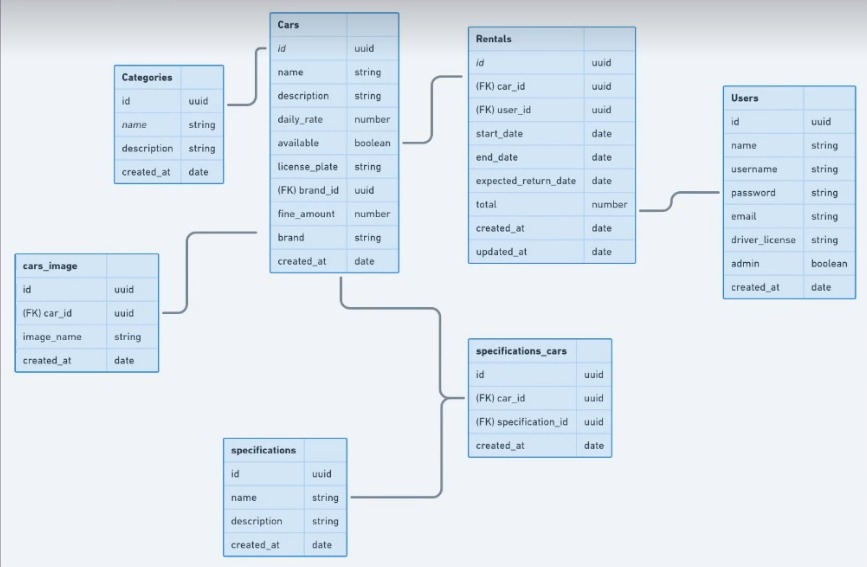
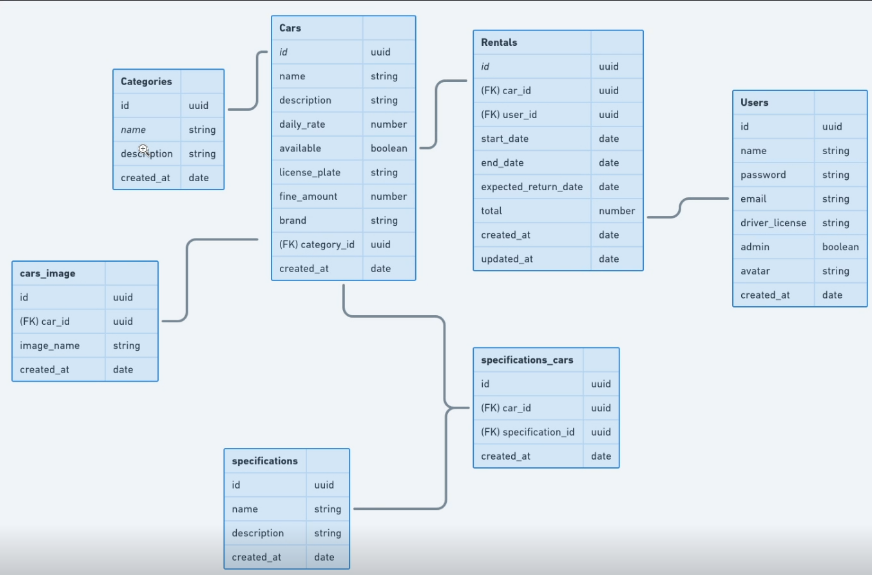
praticando TDD e criando nova migration

diff --git a/src/shared/infra/typeorm/migrations/1638900333623-CreateCars.ts b/src/shared/infra/typeorm/migrations/1638900333623-CreateCars.ts
@@ -1,0 +1,68 @@
+import { MigrationInterface, QueryRunner, Table } from "typeorm";
+
+export class CreateCars1638900333623 implements MigrationInterface {
+  public async up(queryRunner: QueryRunner): Promise<void> {
+    await queryRunner.createTable(
+      new Table({
+        name: "cars",
+        columns: [
+          {
+            name: "id",
+            type: "uuid",
+            isPrimary: true,
+          },
+          {
+            name: "name",
+            type: "varchar",
+          },
+          {
+            name: "description",
+            type: "varchar",
+          },
+          {
+            name: "daily_rate",
+            type: "numeric",
+          },
+          {
+            name: "available",
+            type: "boolean",
+            default: true,
+          },
+          {
+            name: "license_plate",
+            type: "varchar",
+          },
+          {
+            name: "fine_amount",
+            type: "numeric",
+          },
+          { name: "brand", type: "varchar" },
+          {
+            name: "category_id",
+            type: "uuid",
+            isNullable: true,
+          },
+          {
+            name: "created_at",
+            type: "timestamp",
+            default: "now()",
+          },
+        ],
+        foreignKeys: [
+          {
+            name: "FKCategoryCar",
+            referencedTableName: "categories",
+            referencedColumnNames: ["id"],
+            columnNames: ["category_id"],
+            onDelete: "SET NULL",
+            onUpdate: "SET NULL"
+          },
+        ],
+      })
+    );
+  }
+
+  public async down(queryRunner: QueryRunner): Promise<void> {
+    await queryRunner.dropTable("cars")
+  }
+}

diff --git a/src/modules/cars/useCases/createCar/CreateCarUseCase.spec.ts b/src/modules/cars/useCases/createCar/CreateCarUseCase.spec.ts
@@ -1,0 +1,49 @@
+import { CarsRepositoryInMemory } from "@modules/cars/repositories/in-memory/CarsRepositoryInMemory";
+import { AppError } from "@shared/errors/AppError";
+import { CreateCarUseCase } from "./CreateCarUseCase";
+
+let createCarUseCase: CreateCarUseCase;
+let carsRepository:CarsRepositoryInMemory
+describe("Create Car", () => {
+  beforeEach(() => {
+    carsRepository = new CarsRepositoryInMemory();
+    createCarUseCase = new CreateCarUseCase(carsRepository);
+
+  });
+  it("should be able create a new car", async () => {
+    await createCarUseCase.execute({
+      name:'Name Car',
+      description:'Car Test',
+      daily_rate:100,
+      license_plate:'ABC-DEF',
+      brand:'Brand',
+      category_id:'dfdf',
+      fine_amount:60
+    });
+  });
+
+  it("should not to be able create a car with exists license_palte", () => {
+    expect(async ()=>{
+      await createCarUseCase.execute({
+        name:'Name Car',
+        description:'Car Test',
+        daily_rate:100,
+        license_plate:'ABC-DEF',
+        brand:'Brand',
+        category_id:'dfdf',
+        fine_amount:60
+      });
+
+
+      await createCarUseCase.execute({
+        name:'Name Car',
+        description:'Car Test',
+        daily_rate:100,
+        license_plate:'ABC-DEF',
+        brand:'Brand',
+        category_id:'dfdf',
+        fine_amount:60
+      });
+    }).rejects.toBeInstanceOf(AppError)
+  })
+});

diff --git a/src/modules/cars/useCases/createCar/CreateCarUseCase.ts b/src/modules/cars/useCases/createCar/CreateCarUseCase.ts
@@ -1,0 +1,46 @@
+import { ICarsRepository } from "@modules/cars/repositories/ICarsRepository";
+import { AppError } from "@shared/errors/AppError";
+import { inject, injectable } from "tsyringe";
+interface IRequest {
+  name: string;
+  description: string;
+  daily_rate: number;
+  license_plate: string;
+  brand: string;
+  category_id: string;
+  fine_amount: number;
+}
+//@injectable()
+class CreateCarUseCase {
+  constructor(
+    // @inject("CarsRepository")
+    private carsRepository: ICarsRepository
+  ) {}
+  async execute({
+    name,
+    description,
+    daily_rate,
+    license_plate,
+    brand,
+    category_id,
+    fine_amount,
+  }: IRequest): Promise<void> {
+    const carAlreadyExists = await this.carsRepository.findByLicensePlate(
+      license_plate
+    );
+    if (carAlreadyExists) {
+      throw new AppError("Car Already Exists");
+    }
+    await this.carsRepository.create({
+      name,
+      description,
+      daily_rate,
+      license_plate,
+      brand,
+      category_id,
+      fine_amount,
+    });
+  }
+}
+
+export { CreateCarUseCase };

diff --git a/src/modules/cars/repositories/in-memory/CarsRepositoryInMemory.ts b/src/modules/cars/repositories/in-memory/CarsRepositoryInMemory.ts
@@ -1,0 +1,35 @@
+import { ICreateCarDTO } from "@modules/cars/dtos/ICreateCarsDTO";
+import { Car } from "@modules/cars/infra/typeorm/entities/Car";
+import { ICarsRepository } from "../ICarsRepository";
+
+class CarsRepositoryInMemory implements ICarsRepository {
+
+  cars: Car[] = [];
+  async findByLicensePlate(license_plate: string): Promise<Car> {
+    return this.cars.find((car)=>car.license_plate === license_plate)
+ }
+  async create({
+    brand,
+    name,
+    description,
+    license_plate,
+    category_id,
+    daily_rate,
+    fine_amount,
+  }: ICreateCarDTO): Promise<void> {
+    const car = new Car();
+
+    Object.assign(car, {
+      brand,
+      name,
+      description,
+      license_plate,
+      category_id,
+      daily_rate,
+      fine_amount,
+    });
+    this.cars.push(car)
+  }
+}
+
+export { CarsRepositoryInMemory };

diff --git a/src/modules/cars/repositories/ICarsRepository.ts b/src/modules/cars/repositories/ICarsRepository.ts
@@ -1,0 +1,9 @@
+import { ICreateCarDTO } from "../dtos/ICreateCarsDTO";
+import { Car } from "../infra/typeorm/entities/Car";
+
+interface ICarsRepository{
+    create(data:ICreateCarDTO):Promise<void>
+    findByLicensePlate(license_plate:string):Promise<Car>
+}
+
+export {ICarsRepository}

diff --git a/src/modules/cars/infra/typeorm/entities/Car.ts b/src/modules/cars/infra/typeorm/entities/Car.ts
@@ -1,0 +1,23 @@
+class Car {
+  id: string;
+  
+  name: string;
+
+  description: string;
+
+  daily_rate: number;
+
+  license_plate: string;
+
+  available:boolean;
+
+  fine_amount:number;
+
+  brand: string;
+
+  category_id: string;
+
+  created_at: Date;
+}
+
+export { Car };

diff --git a/src/modules/cars/dtos/ICreateCarsDTO.ts b/src/modules/cars/dtos/ICreateCarsDTO.ts
@@ -1,0 +1,22 @@
+
+
+interface ICreateCarDTO{
+    name: string;
+
+    description: string;
+  
+    daily_rate: number;
+  
+    license_plate: string;
+  
+  
+    fine_amount:number;
+  
+    brand: string;
+  
+    category_id: string;
+  
+ 
+}
+
+export { ICreateCarDTO}

diff --git a/src/modules/cars/repositories/in-memory/CategoriesRepositoryInMemory.ts b/src/modules/cars/repositories/in-memory/CategoriesRepositoryInMemory.ts
@@ -1,5 +1,5 @@
 import { getRepository } from "typeorm";
-import { Category } from "../../infra/typeorm/entities/Category";
+import { Category } from "@modules/cars/infra/typeorm/entities/Category";
 import {
   ICategoriesRepository,
   ICreateCategoryDTO,

diff --git a/src/shared/infra/http/server.ts b/src/shared/infra/http/server.ts
@@ -1,4 +1,4 @@
-import "@shared/typeorm";
+import "@shared/infra/typeorm";
 import express, { NextFunction, Request, Response } from "express";
 import "express-async-errors"
 import swaggerUi from "swagger-ui-express";
